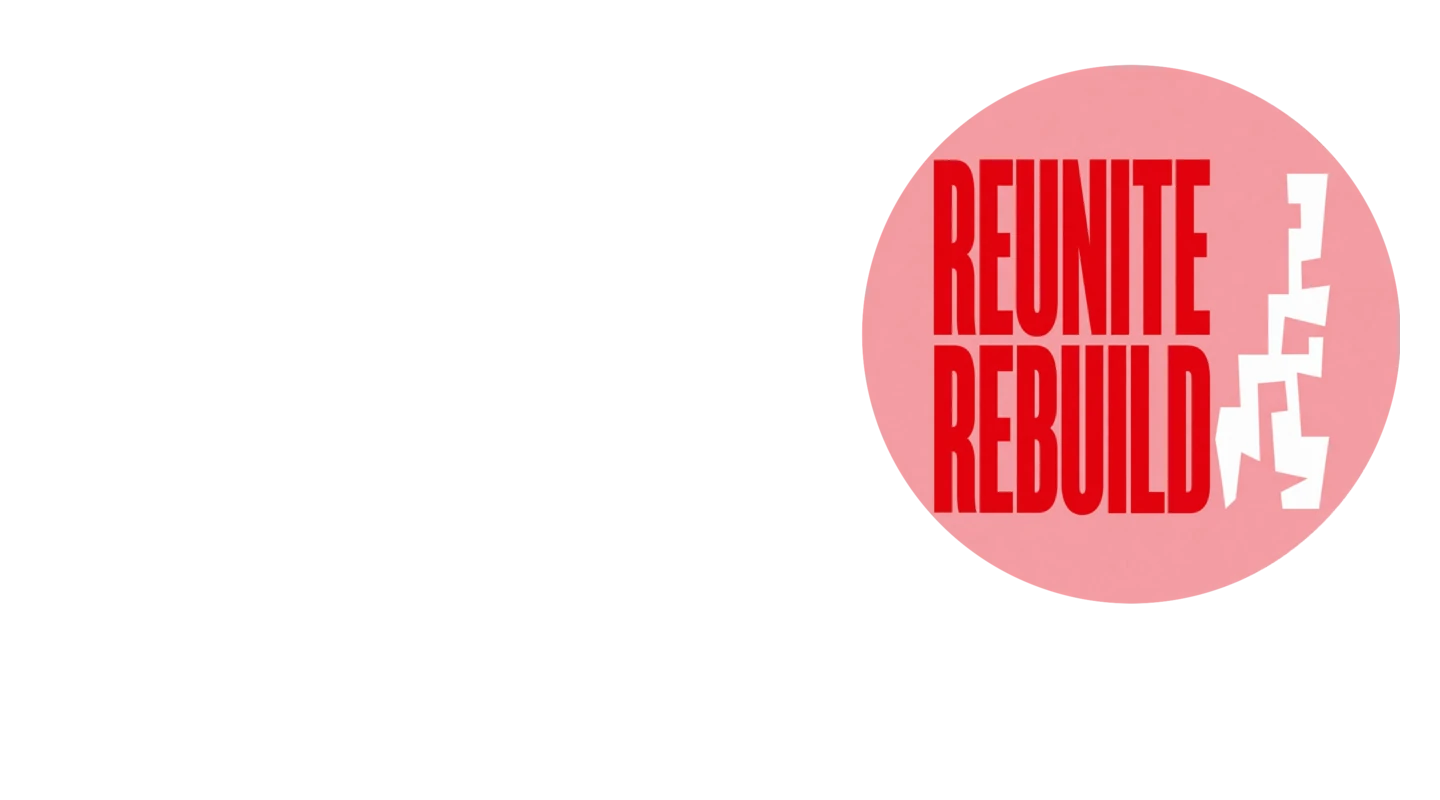
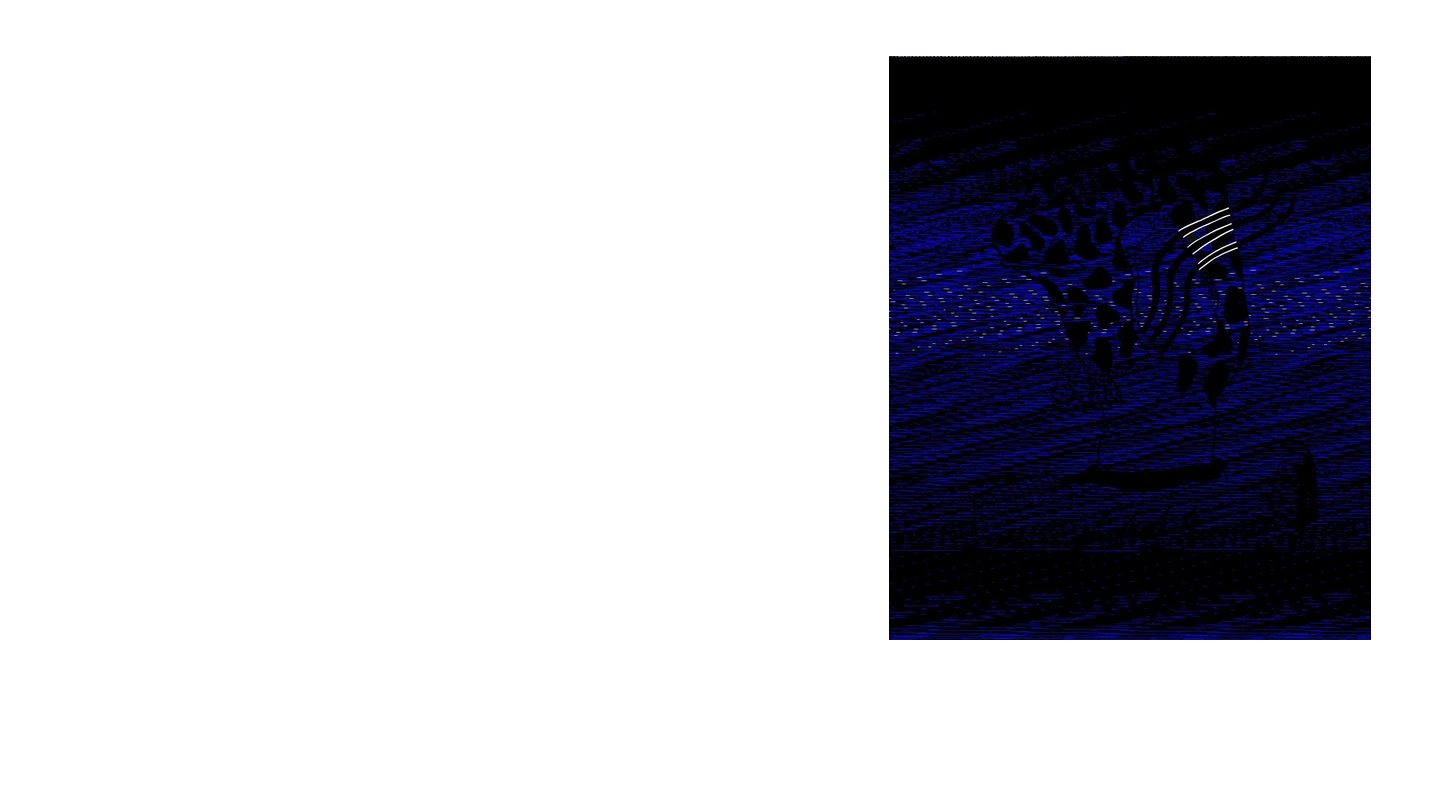
Volume 3: new cover poster (staging)
Replaces the Reunite Rebuild sticker with Harrison's black-and-blue poster
(plants, white strokes, blue scan lines) in the hero, mobile, social and
thumbnail covers, placed in the zones the title and arrow leave clear
(desktop 482x584 at +889+56; mobile 328x398 at +49+252), and updates the alt
text in en/es.

Changed region(s): [[0.5938, 0.0625, 1.0, 0.8125]]

diff --git a/_volumes/es/wilder-journal-03.md b/_volumes/es/wilder-journal-03.md
@@ -6,8 +6,7 @@ volume-number: 3
 title: "AngustIAs Democráticas: Futuros del Cuidado"
 uid: wilder-journal-3
 cover:
-  alt: "Una pegatina redonda rosa con el texto Reunite Rebuild en letras rojas —
-    Wilder Journal #3 de Platoniq"
+  alt: "Un póster negro y azul: siluetas oscuras de plantas y trazos blancos sobre líneas azules de escaneo — Wilder Journal #3 de Platoniq"
   credits: "Wilder Journal #3 by Platoniq"
   path: /media/volumes/heroes/cover-03.webp
   mobile: /media/volumes/mobile/cover-03.webp
@@ -16,6 +15,5 @@ locale: es
 description: "AngustIAs democráticas: futuros del cuidado"
 image:
   path: /media/volumes/social/cover-03.webp
-  alt: "Una pegatina redonda rosa con el texto Reunite Rebuild en letras rojas —
-    Wilder Journal #3 de Platoniq"
+  alt: "Un póster negro y azul: siluetas oscuras de plantas y trazos blancos sobre líneas azules de escaneo — Wilder Journal #3 de Platoniq"
 ---

diff --git a/_volumes/en/wilder-journal-03.md b/_volumes/en/wilder-journal-03.md
@@ -6,8 +6,7 @@ volume-number: 3
 title: "Democratic AInxieties: Caring Futures"
 uid: wilder-journal-3
 cover:
-  alt: "A round pink sticker reading Reunite Rebuild in red letters — Wilder
-    Journal #3 by Platoniq"
+  alt: "A black-and-blue poster: dark plant silhouettes and white strokes over blue scan lines — Wilder Journal #3 by Platoniq"
   credits: "Wilder Journal #3 by Platoniq"
   path: /media/volumes/heroes/cover-03.webp
   mobile: /media/volumes/mobile/cover-03.webp
@@ -16,6 +15,5 @@ locale: en
 description: "Democratic AInxieties: Caring Futures"
 image:
   path: /media/volumes/social/cover-03.webp
-  alt: "A round pink sticker reading Reunite Rebuild in red letters — Wilder
-    Journal #3 by Platoniq"
+  alt: "A black-and-blue poster: dark plant silhouettes and white strokes over blue scan lines — Wilder Journal #3 by Platoniq"
 ---
